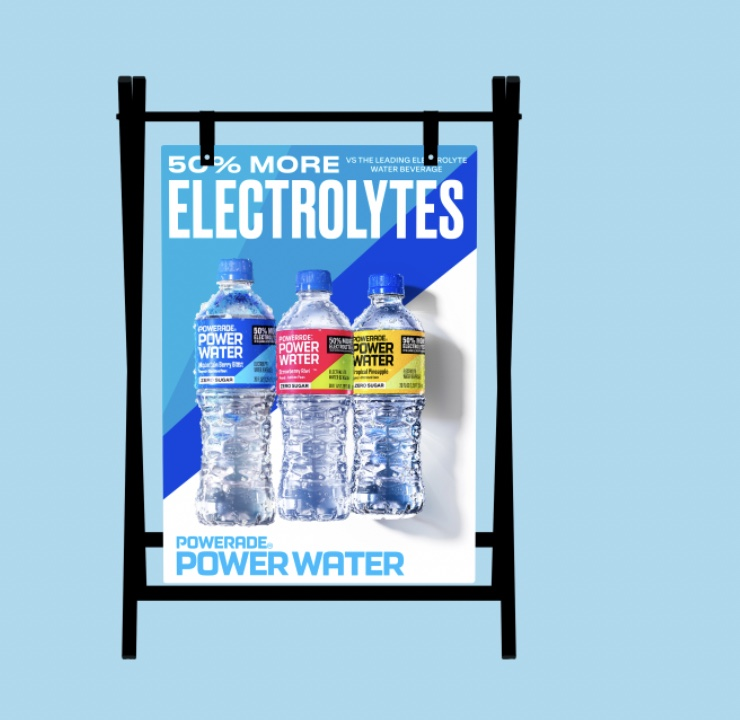
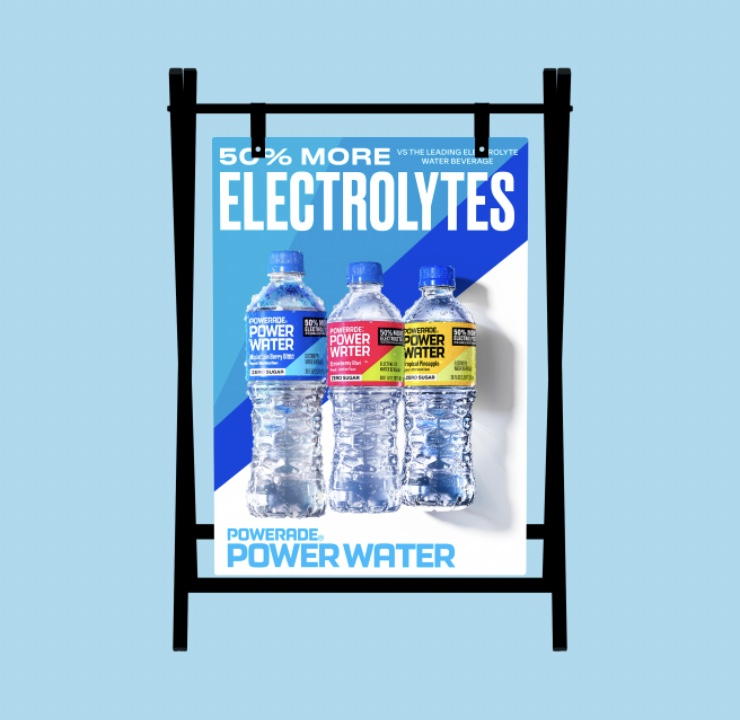
Agency + Client Work: centred Powerade sign crop, Cutwater moved up, removed headliner and two Welch's ads

diff --git a/agency-client-work.html b/agency-client-work.html
@@ -337,7 +337,7 @@
   }
 
   /* ===== Agency + Client Work: floating tiles ===== */
-  .field { position: relative; transition: height .6s cubic-bezier(.2, .7, .2, 1); height: 156.9vw; margin: 4vw 0 8vw; }
+  .field { position: relative; transition: height .6s cubic-bezier(.2, .7, .2, 1); height: 156.5vw; margin: 4vw 0 8vw; }
   .ft { position: absolute; left: var(--l); top: var(--t); width: var(--w); z-index: 1;
         animation: drift var(--dur) ease-in-out var(--del) infinite alternate; transition: opacity .5s ease, transform .6s cubic-bezier(.2, .7, .2, 1); }
   .ft:hover { z-index: 5; animation-play-state: paused; }
@@ -397,49 +397,37 @@
   <div class="pic" style="background-image:url('images/agency/powerade-sign.jpg')" role="img" aria-label="Powerade Power Water"></div>
   <div class="cap"><b>Powerade Power Water</b><p>Lorem ipsum dolor sit amet, consectetur adipiscing elit. Sed do eiusmod tempor incididunt ut labore et dolore magna aliqua.</p></div>
 </div>
-<div class="ft" style="--l:40%; --t:34vw; --w:15vw; --h:22.50vw; --ar:0.667; --tone:#c9c9c9; --ox:50%; --cx:-.225; --cy:1; --dur:10s; --del:-6s; --dx:-5px; --dy:16px">
-  <div class="pic" style="background-image:url('images/agency/welchs-grape.jpg')" role="img" aria-label="Welch's Real PB&amp;Js"></div>
-  <div class="cap"><b>Welch's Real PB&amp;Js</b><p>Lorem ipsum dolor sit amet, consectetur adipiscing elit. Sed do eiusmod tempor incididunt ut labore et dolore magna aliqua.</p></div>
+<div class="ft r" style="--l:75%; --t:26vw; --w:23vw; --h:16.68vw; --ar:1.379; --tone:#c9c9c9; --ox:100%; --cx:-.45; --cy:1; --dur:10s; --del:-6s; --dx:-5px; --dy:16px">
+  <div class="pic" style="background-image:url('images/agency/cutwater-wristbands.jpg')" role="img" aria-label="Cutwater"></div>
+  <div class="cap"><b>Cutwater</b><p>Lorem ipsum dolor sit amet, consectetur adipiscing elit. Sed do eiusmod tempor incididunt ut labore et dolore magna aliqua.</p></div>
 </div>
-<div class="ft r" style="--l:74%; --t:30vw; --w:15vw; --h:22.50vw; --ar:0.667; --tone:#b8b8b8; --ox:100%; --cx:-.45; --cy:1; --dur:7s; --del:-2s; --dx:9px; --dy:-14px">
-  <div class="pic" style="background-image:url('images/agency/welchs-mixed-fruit.jpg')" role="img" aria-label="Welch's Real PB&amp;Js"></div>
-  <div class="cap"><b>Welch's Real PB&amp;Js</b><p>Lorem ipsum dolor sit amet, consectetur adipiscing elit. Sed do eiusmod tempor incididunt ut labore et dolore magna aliqua.</p></div>
-</div>
-<div class="ft" style="--l:9%; --t:40vw; --w:15vw; --h:22.50vw; --ar:0.667; --tone:#c4c4c4; --ox:0%; --cx:0; --cy:1; --dur:9s; --del:-5s; --dx:-8px; --dy:12px">
-  <div class="pic" style="background-image:url('images/agency/welchs-strawberry.jpg')" role="img" aria-label="Welch's Real PB&amp;Js"></div>
-  <div class="cap"><b>Welch's Real PB&amp;Js</b><p>Lorem ipsum dolor sit amet, consectetur adipiscing elit. Sed do eiusmod tempor incididunt ut labore et dolore magna aliqua.</p></div>
-</div>
-<div class="ft" style="--l:30%; --t:64vw; --w:32vw; --h:18.03vw; --ar:1.775; --tone:#bdbdbd; --ox:50%; --cx:-.225; --cy:1; --dur:6s; --del:-1s; --dx:6px; --dy:-10px">
+<div class="ft" style="--l:30%; --t:64vw; --w:32vw; --h:18.03vw; --ar:1.775; --tone:#b8b8b8; --ox:50%; --cx:-.225; --cy:1; --dur:7s; --del:-2s; --dx:9px; --dy:-14px">
   <div class="pic" style="background-image:url('images/agency/tresemme.jpg')" role="img" aria-label="TRESemmé"></div>
   <div class="cap"><b>TRESemmé</b><p>Lorem ipsum dolor sit amet, consectetur adipiscing elit. Sed do eiusmod tempor incididunt ut labore et dolore magna aliqua.</p></div>
 </div>
-<div class="ft r" style="--l:70%; --t:60vw; --w:24vw; --h:21.84vw; --ar:1.099; --tone:#c9c9c9; --ox:100%; --cx:-.45; --cy:1; --dur:8s; --del:-4s; --dx:-5px; --dy:16px">
+<div class="ft r" style="--l:70%; --t:60vw; --w:24vw; --h:21.84vw; --ar:1.099; --tone:#c4c4c4; --ox:100%; --cx:-.45; --cy:1; --dur:9s; --del:-5s; --dx:-8px; --dy:12px">
   <div class="pic" style="background-image:url('images/agency/liquid-iv-kiosk.jpg')" role="img" aria-label="Liquid I.V."></div>
   <div class="cap"><b>Liquid I.V.</b><p>Lorem ipsum dolor sit amet, consectetur adipiscing elit. Sed do eiusmod tempor incididunt ut labore et dolore magna aliqua.</p></div>
 </div>
-<div class="ft" style="--l:4%; --t:88vw; --w:31vw; --h:17.44vw; --ar:1.778; --tone:#b8b8b8; --ox:0%; --cx:0; --cy:1; --dur:10s; --del:-0s; --dx:9px; --dy:-14px">
-  <div class="pic" style="background-image:url('images/agency/liquid-iv-headliner.jpg')" role="img" aria-label="Liquid I.V."></div>
-  <div class="cap"><b>Liquid I.V.</b><p>Lorem ipsum dolor sit amet, consectetur adipiscing elit. Sed do eiusmod tempor incididunt ut labore et dolore magna aliqua.</p></div>
-</div>
-<div class="ft r" style="--l:44%; --t:92vw; --w:30vw; --h:19.67vw; --ar:1.525; --tone:#c4c4c4; --ox:50%; --cx:-.225; --cy:1; --dur:7s; --del:-3s; --dx:-8px; --dy:12px">
+<div class="ft r" style="--l:44%; --t:92vw; --w:30vw; --h:19.67vw; --ar:1.525; --tone:#bdbdbd; --ox:50%; --cx:-.225; --cy:1; --dur:6s; --del:-1s; --dx:6px; --dy:-10px">
   <div class="pic" style="background-image:url('images/agency/liquid-iv-booth-render.jpg')" role="img" aria-label="Liquid I.V."></div>
   <div class="cap"><b>Liquid I.V.</b><p>Lorem ipsum dolor sit amet, consectetur adipiscing elit. Sed do eiusmod tempor incididunt ut labore et dolore magna aliqua.</p></div>
 </div>
-<div class="ft r" style="--l:80%; --t:90vw; --w:16vw; --h:28.77vw; --ar:0.556; --tone:#bdbdbd; --ox:100%; --cx:-.45; --cy:1; --dur:9s; --del:-6s; --dx:6px; --dy:-10px">
+<div class="ft r" style="--l:80%; --t:90vw; --w:16vw; --h:28.77vw; --ar:0.556; --tone:#c9c9c9; --ox:100%; --cx:-.45; --cy:1; --dur:8s; --del:-4s; --dx:-5px; --dy:16px">
   <div class="pic" style="background-image:url('images/agency/good-company-halloween.jpg')" role="img" aria-label="Good Company Productions"></div>
   <div class="cap"><b>Good Company Productions</b><p>Lorem ipsum dolor sit amet, consectetur adipiscing elit. Sed do eiusmod tempor incididunt ut labore et dolore magna aliqua.</p></div>
 </div>
-<div class="ft" style="--l:8%; --t:116vw; --w:23vw; --h:22.51vw; --ar:1.022; --tone:#c9c9c9; --ox:0%; --cx:0; --cy:1; --dur:6s; --del:-2s; --dx:-5px; --dy:16px">
+<div class="ft" style="--l:6%; --t:90vw; --w:24vw; --h:23.49vw; --ar:1.022; --tone:#b8b8b8; --ox:0%; --cx:0; --cy:1; --dur:10s; --del:-0s; --dx:9px; --dy:-14px">
   <div class="pic" style="background-image:url('images/agency/saturn-character-sides.jpg')" role="img" aria-label="SATurn"></div>
   <div class="cap"><b>SATurn</b><p>Lorem ipsum dolor sit amet, consectetur adipiscing elit. Sed do eiusmod tempor incididunt ut labore et dolore magna aliqua.</p></div>
 </div>
-<div class="ft r" style="--l:40%; --t:122vw; --w:23vw; --h:22.51vw; --ar:1.022; --tone:#b8b8b8; --ox:50%; --cx:-.225; --cy:1; --dur:8s; --del:-5s; --dx:9px; --dy:-14px">
+<div class="ft r" style="--l:40%; --t:122vw; --w:23vw; --h:22.51vw; --ar:1.022; --tone:#c4c4c4; --ox:50%; --cx:-.225; --cy:1; --dur:7s; --del:-3s; --dx:-8px; --dy:12px">
   <div class="pic" style="background-image:url('images/agency/saturn-character-top-bottom.jpg')" role="img" aria-label="SATurn"></div>
   <div class="cap"><b>SATurn</b><p>Lorem ipsum dolor sit amet, consectetur adipiscing elit. Sed do eiusmod tempor incididunt ut labore et dolore magna aliqua.</p></div>
 </div>
-<div class="ft r" style="--l:72%; --t:126vw; --w:26vw; --h:18.85vw; --ar:1.379; --tone:#c4c4c4; --ox:100%; --cx:-.45; --cy:1; --dur:10s; --del:-1s; --dx:-8px; --dy:12px">
-  <div class="pic" style="background-image:url('images/agency/cutwater-wristbands.jpg')" role="img" aria-label="Cutwater"></div>
-  <div class="cap"><b>Cutwater</b><p>Lorem ipsum dolor sit amet, consectetur adipiscing elit. Sed do eiusmod tempor incididunt ut labore et dolore magna aliqua.</p></div>
+<div class="ft" style="--l:41%; --t:34vw; --w:16vw; --h:24.00vw; --ar:0.667; --tone:#bdbdbd; --ox:50%; --cx:-.225; --cy:1; --dur:9s; --del:-6s; --dx:6px; --dy:-10px">
+  <div class="pic" style="background-image:url('images/agency/welchs-mixed-fruit.jpg')" role="img" aria-label="Welch's Real PB&amp;Js"></div>
+  <div class="cap"><b>Welch's Real PB&amp;Js</b><p>Lorem ipsum dolor sit amet, consectetur adipiscing elit. Sed do eiusmod tempor incididunt ut labore et dolore magna aliqua.</p></div>
 </div>
   </div>
   <script>

diff --git a/_build/build.rb b/_build/build.rb
@@ -461,17 +461,14 @@ TILES = [
   # [left %, top vw, width vw, picture (in images/agency), width px, height px, title, description]
   [ 4,   4, 35, 'powerade-tent.jpg',          1544, 1057, 'Powerade Power Water'],
   [58,   0, 21, 'powerade-sign.jpg',           740,  720, 'Powerade Power Water'],
-  [40,  34, 15, 'welchs-grape.jpg',            580,  870, "Welch's Real PB&Js"],
-  [74,  30, 15, 'welchs-mixed-fruit.jpg',      580,  870, "Welch's Real PB&Js"],
-  [ 9,  40, 15, 'welchs-strawberry.jpg',       580,  870, "Welch's Real PB&Js"],
+  [75,  26, 23, 'cutwater-wristbands.jpg',     1564, 1134, 'Cutwater'],
   [30,  64, 32, 'tresemme.jpg',               2000, 1127, 'TRESemmé'],
   [70,  60, 24, 'liquid-iv-kiosk.jpg',        1069,  973, 'Liquid I.V.'],
-  [ 4,  88, 31, 'liquid-iv-headliner.jpg',    2000, 1125, 'Liquid I.V.'],
   [44,  92, 30, 'liquid-iv-booth-render.jpg', 1714, 1124, 'Liquid I.V.'],
   [80,  90, 16, 'good-company-halloween.jpg',  920, 1654, 'Good Company Productions'],
-  [ 8, 116, 23, 'saturn-character-sides.jpg',      1600, 1566, 'SATurn'],
+  [ 6,  90, 24, 'saturn-character-sides.jpg',      1600, 1566, 'SATurn'],
   [40, 122, 23, 'saturn-character-top-bottom.jpg', 1600, 1566, 'SATurn'],
-  [72, 126, 26, 'cutwater-wristbands.jpg',     1564, 1134, 'Cutwater'],
+  [41,  34, 16, 'welchs-mixed-fruit.jpg',      580,  870, "Welch's Real PB&Js"],
 ]
 TONES = %w[#c4c4c4 #bdbdbd #c9c9c9 #b8b8b8]
 field_h = TILES.map { |l, t, w, _, pw, ph| t + w * ph.to_f / pw }.max + 12
